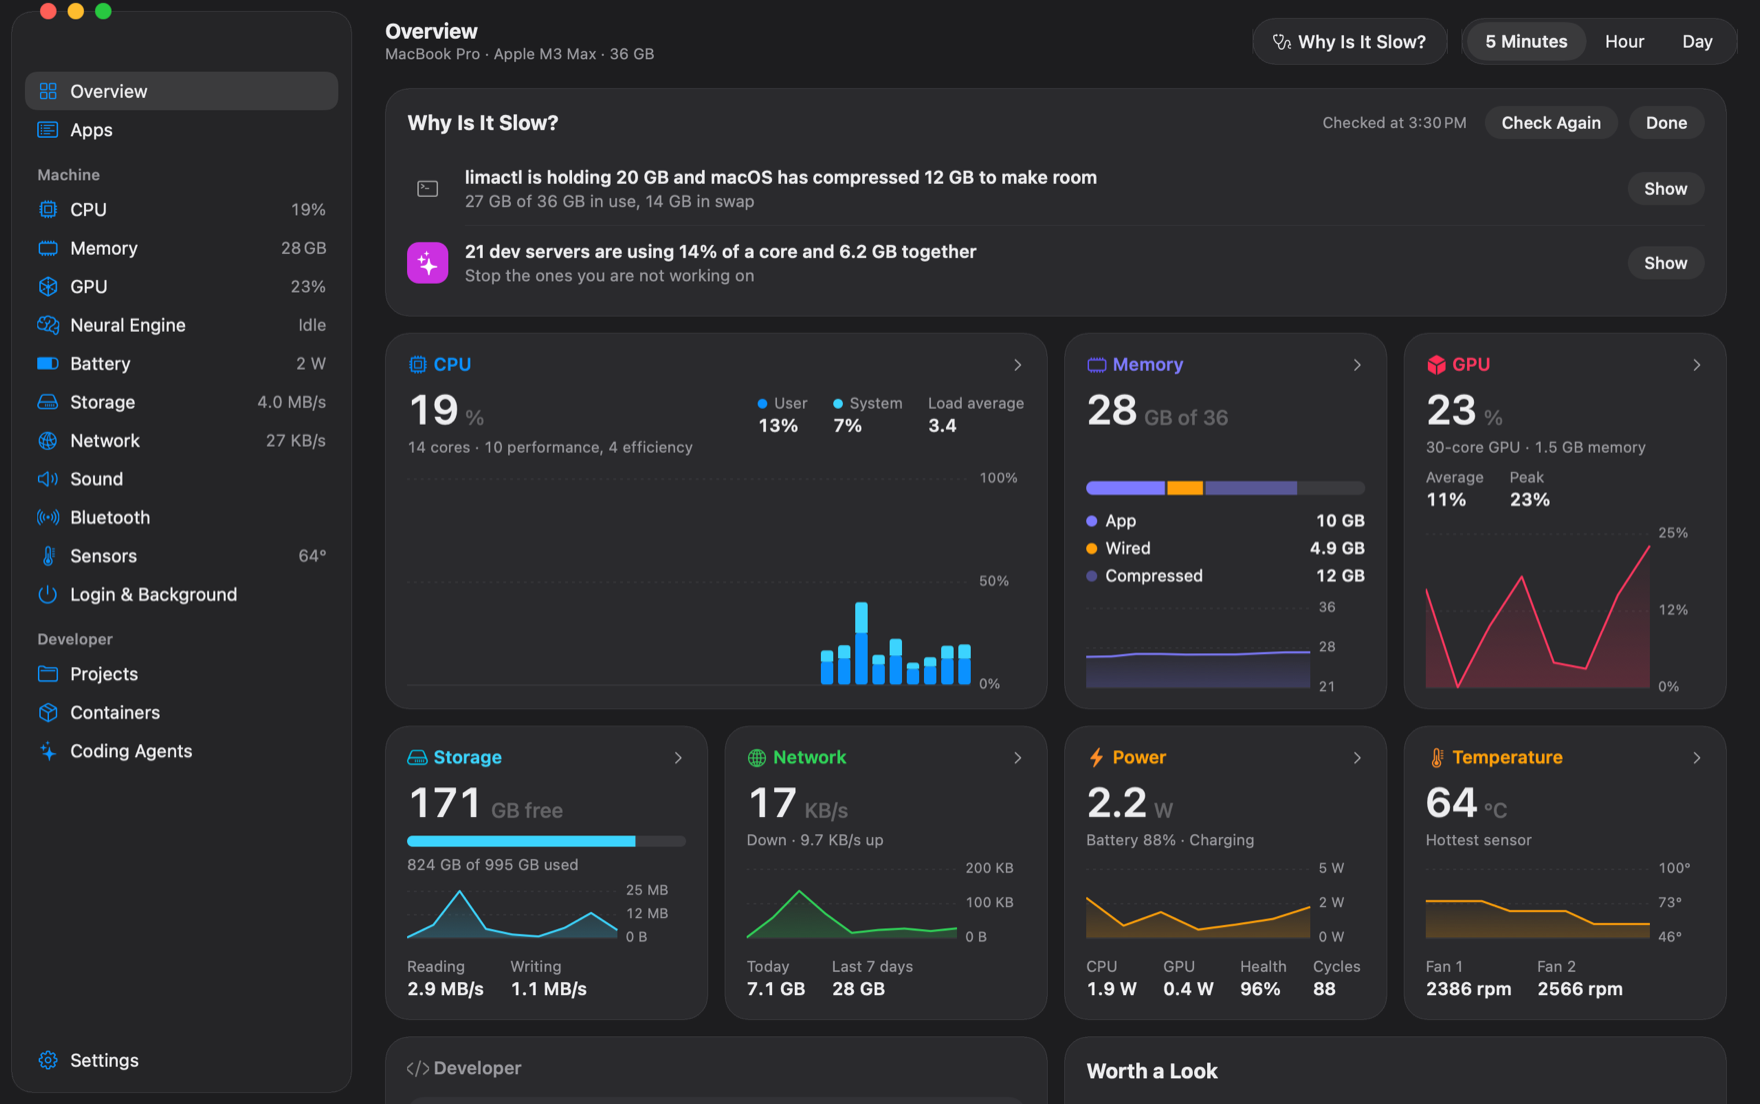
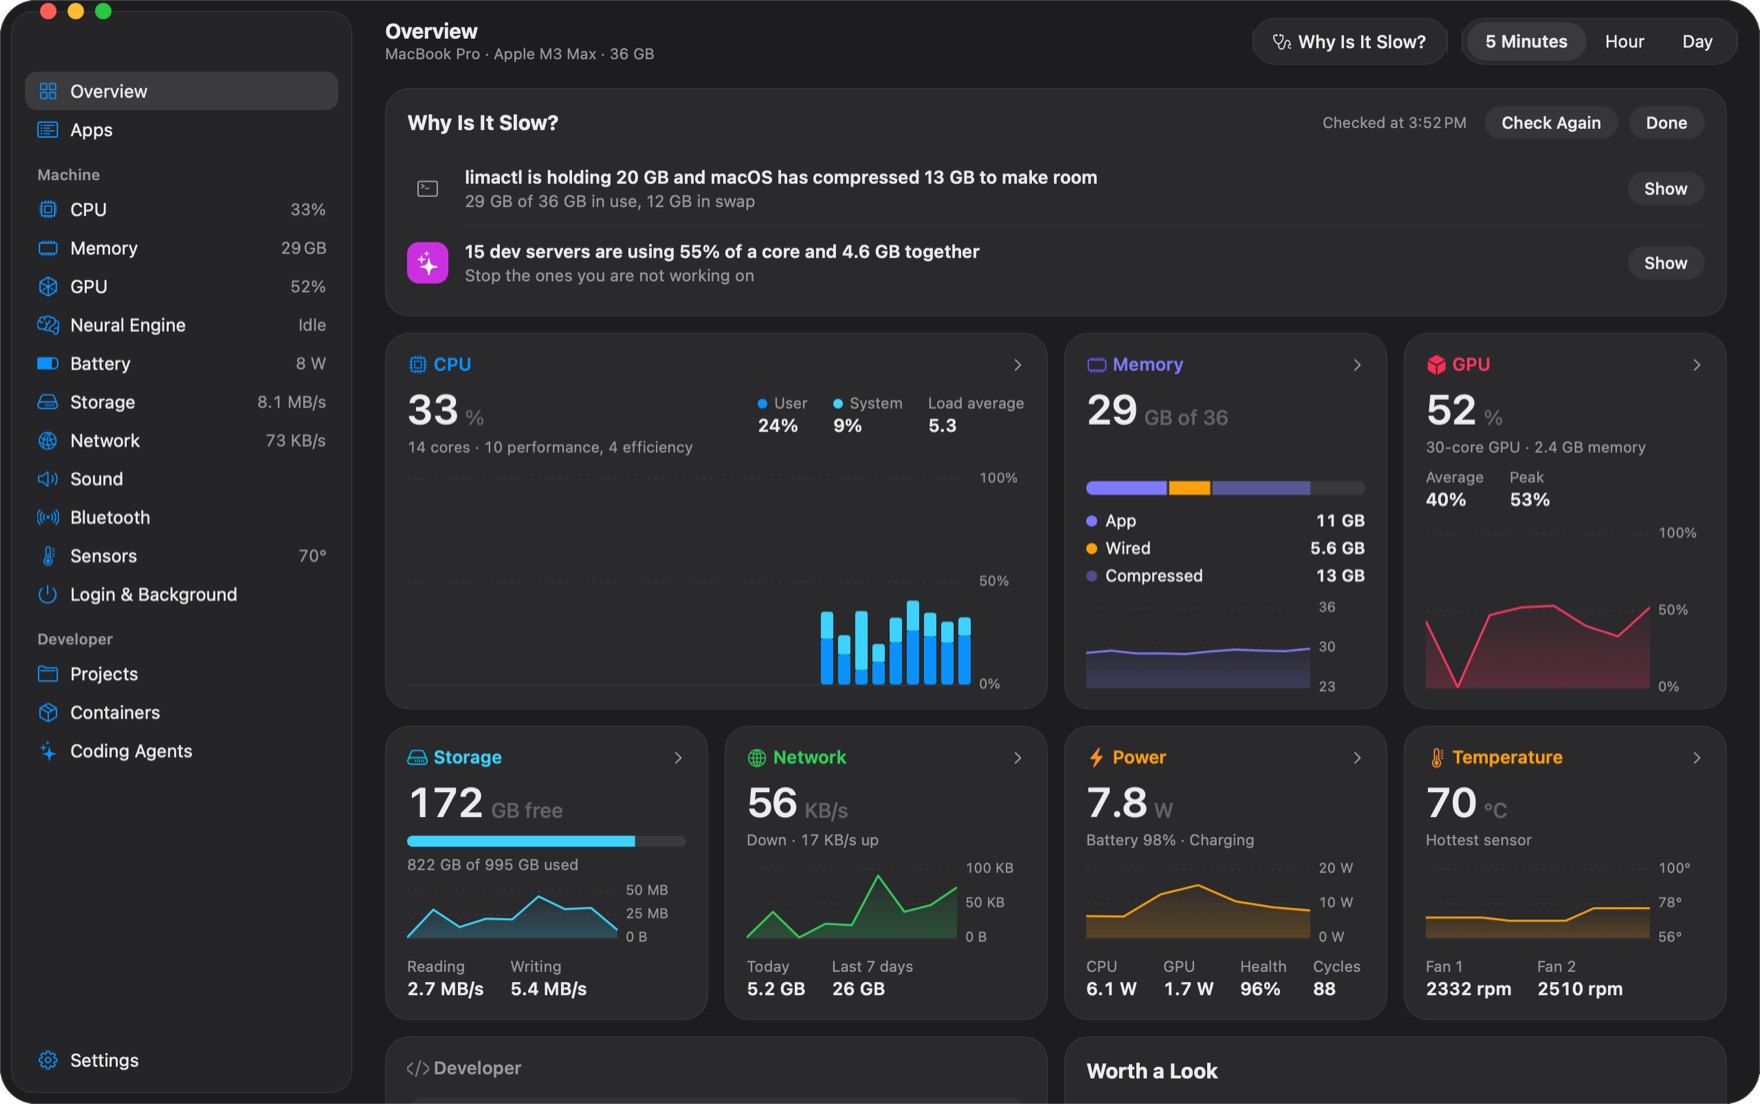
README: screenshots with window corners

diff --git a/README.md b/README.md
@@ -11,7 +11,7 @@ numbers come from.
 
 <picture>
   <source media="(prefers-color-scheme: dark)" srcset="docs/images/overview-dark.png">
-  <img src="docs/images/overview-light.png" alt="The Overview page with Why Is It Slow? open. It says limactl is holding 20 GB and macOS has compressed 12 GB to make room, and that 21 dev servers are using 6.2 GB together. Below are the CPU, memory and GPU cards.">
+  <img src="docs/images/overview-light.png" alt="The Overview page with Why Is It Slow? open. It says limactl is holding 20 GB and macOS has compressed 13 GB to make room, and that 15 dev servers are using 4.6 GB together. Below are the CPU, memory and GPU cards.">
 </picture>
 
 ## Why is my Mac slow?
@@ -32,7 +32,7 @@ containers, and its last hour.
 
 <picture>
   <source media="(prefers-color-scheme: dark)" srcset="docs/images/apps-dark.png">
-  <img src="docs/images/apps-light.png" alt="The Apps page with the drawer open for the Aside browser: 13 GB of memory, 57.6% CPU, and windows using 59% of its memory across 38 processes.">
+  <img src="docs/images/apps-light.png" alt="The Apps page with the drawer open for the Aside browser: 14 GB of memory, 259.8% CPU, and windows using 62% of its memory across 43 processes.">
 </picture>
 
 ## Storage
@@ -44,7 +44,7 @@ after a confirmation. Wisp does not delete files itself.
 
 <picture>
   <source media="(prefers-color-scheme: dark)" srcset="docs/images/storage-dark.png">
-  <img src="docs/images/storage-light.png" alt="The Storage page: 171 GB free of 995 GB, and the Developer list with Colima at 76 GB, Rust target folders at 50 GB and node_modules in 101 projects at 30 GB.">
+  <img src="docs/images/storage-light.png" alt="The Storage page: 172 GB free of 995 GB, and the Developer list with Colima at 76 GB, Rust target folders at 50 GB and node_modules in 101 projects at 30 GB.">
 </picture>
 
 ## Other pages
